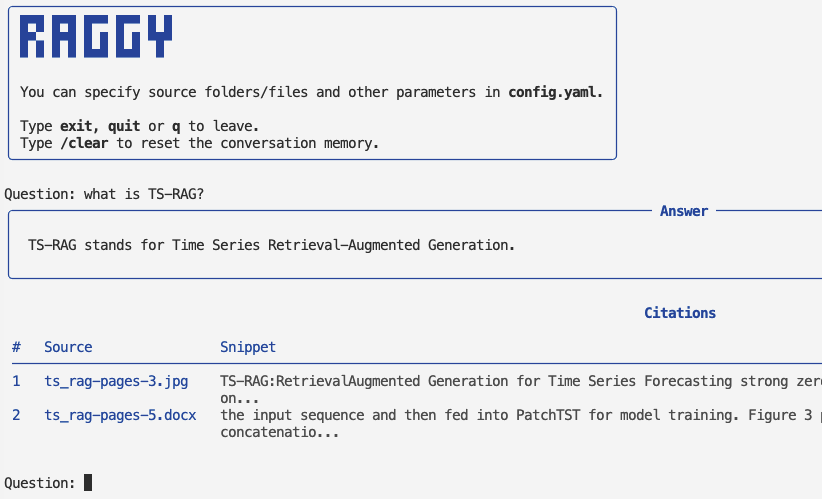
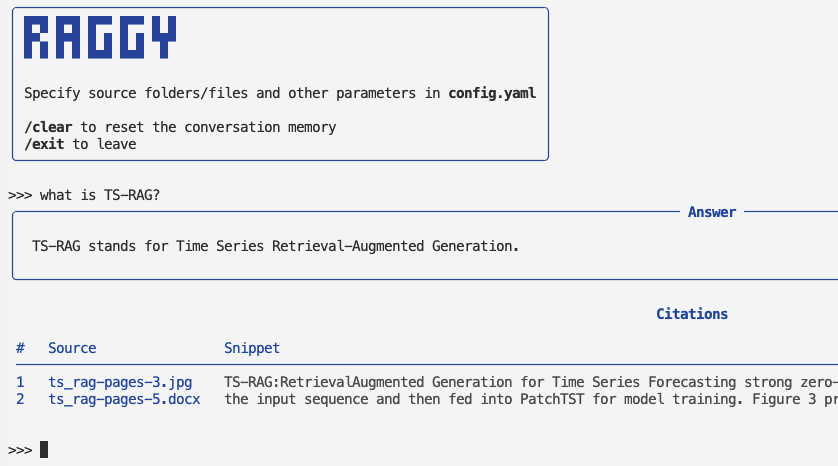
cleaner CLI UI

diff --git a/raggy/cli.py b/raggy/cli.py
@@ -17,7 +17,7 @@ from .vectorstore import build_index_config, db_needs_rebuild
 logger = logging.getLogger(__name__)
 
 ACCENT = "blue"
-STATUS_ACCENT = "grey"
+STATUS_ACCENT = "blue"
 
 MEMORY_TURNS = 8
 
@@ -86,10 +86,10 @@ def run_chat() -> None:
     console.print(
         Panel.fit(
             f"[{ACCENT}]{LOGO}[/{ACCENT}]\n\n"
-            "You can specify source folders/files and other parameters in "
-            "[bold]config.yaml[/bold].\n\n"
-            "Type [bold]exit[/bold], [bold]quit[/bold] or [bold]q[/bold] to leave.\n"
-            "Type [bold]/clear[/bold] to reset the conversation memory.",
+            "Specify source folders/files and other parameters in "
+            "[bold]config.yaml[/bold]\n\n"
+            "[bold]/clear[/bold] to reset the conversation memory\n"
+            "[bold]/exit[/bold] to leave",
             border_style=ACCENT,
         )
     )
@@ -99,14 +99,14 @@ def run_chat() -> None:
 
     while True:
         try:
-            query = _ask("Question: ")
+            query = _ask(">>> ")
         except (KeyboardInterrupt, EOFError):
             console.print()
             console.print(f"[{ACCENT}]See you![/{ACCENT}]")
             return
 
         query = query.strip()
-        if query.lower() in {"exit", "quit", "q"}:
+        if query == "/exit":
             console.print()
             console.print(f"[{ACCENT}]See you![/{ACCENT}]")
             return
